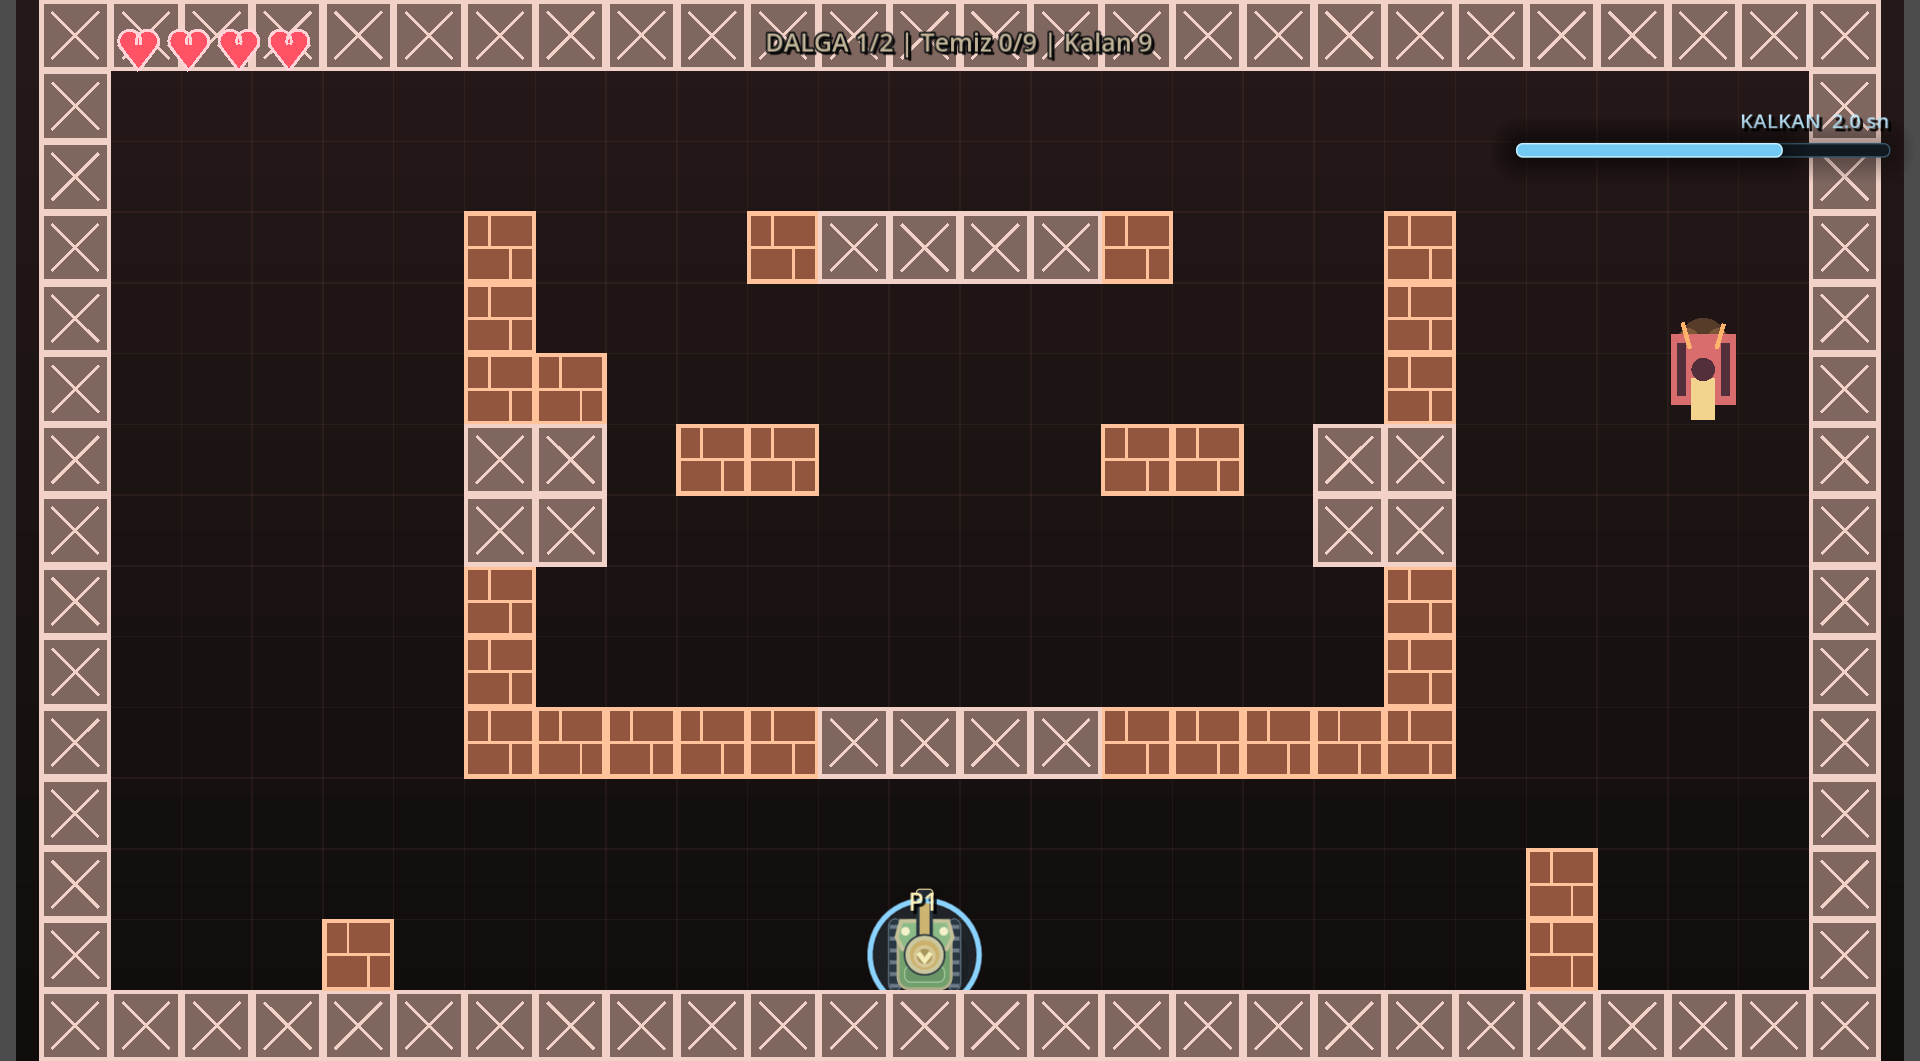
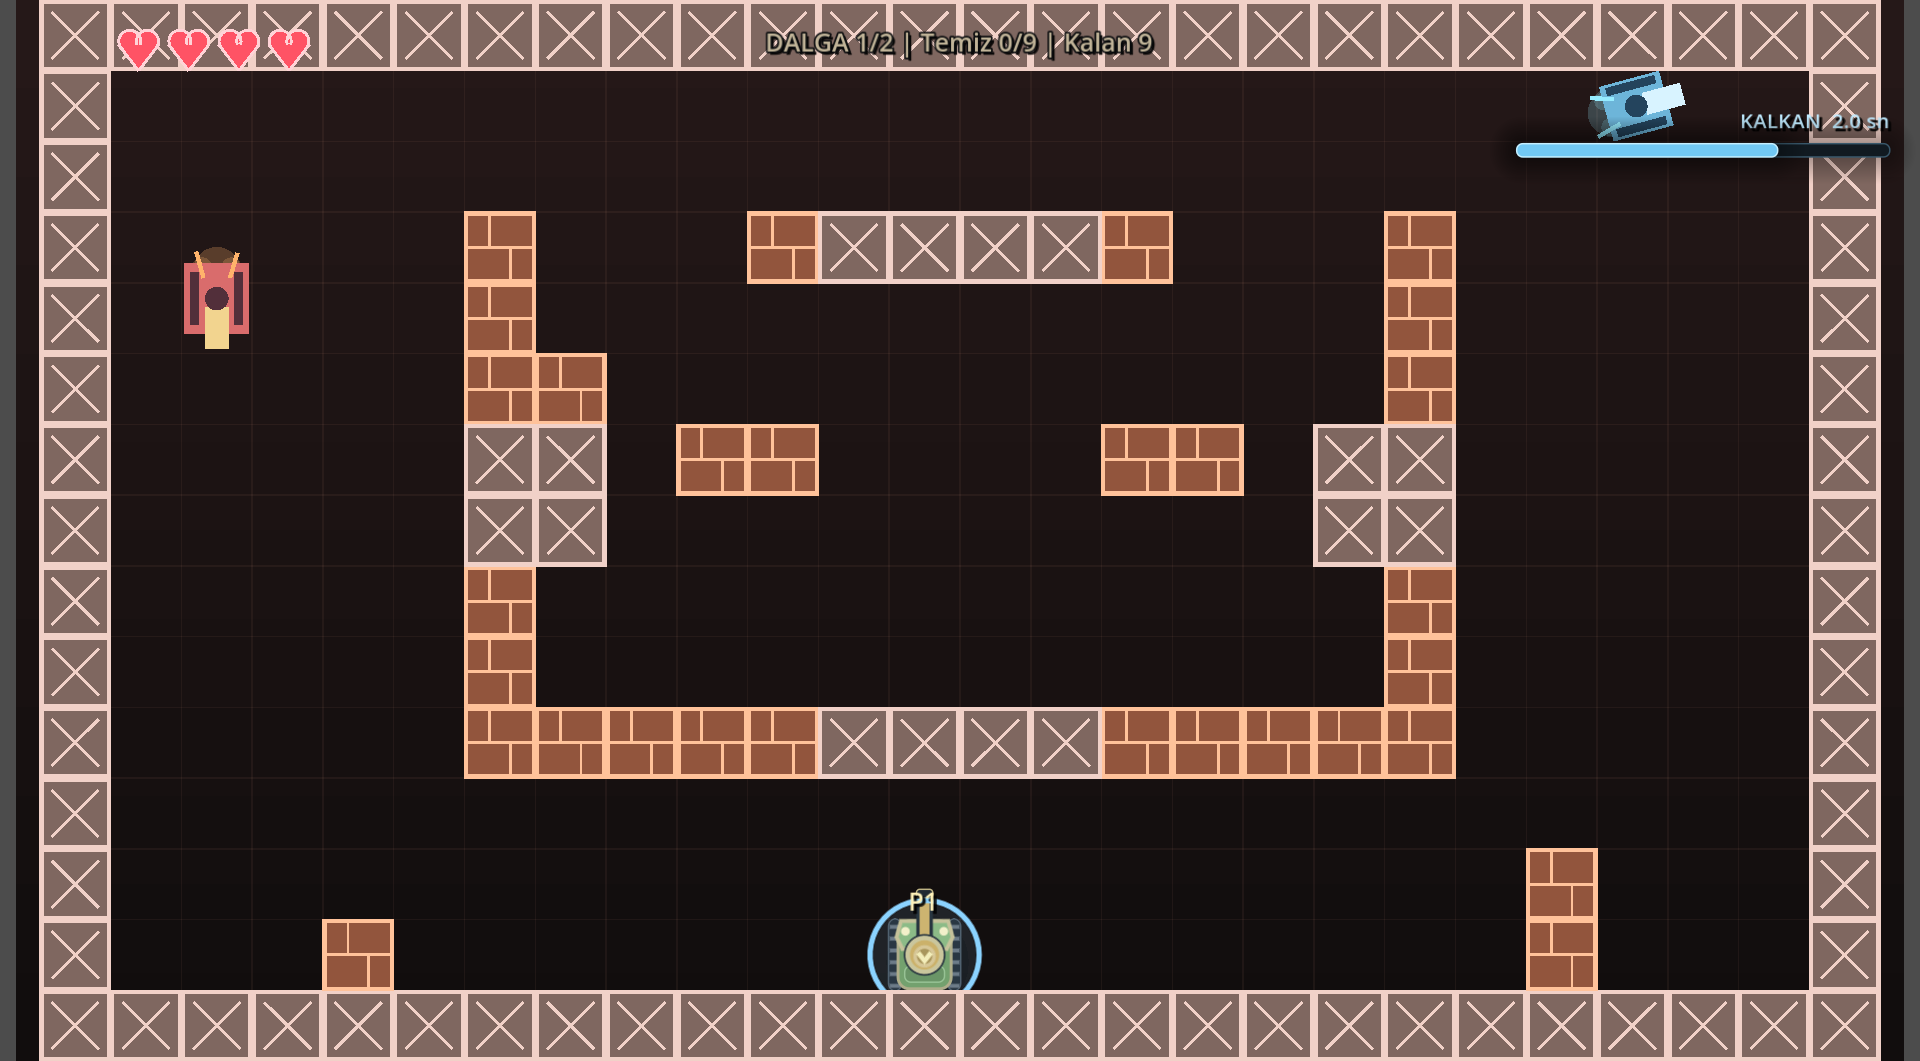
perf: coalesce network updates and fix projectile prediction

Changed region(s): [[0.8438, 0.2799, 0.9062, 0.4043], [0.0938, 0.2177, 0.1562, 0.3421], [0.8125, 0.0622, 0.875, 0.1244]]

diff --git a/docs/performance-2.0.3.md b/docs/performance-2.0.3.md
@@ -1,0 +1,54 @@
+# 2.0.3 / 25 performans ve hata azaltma
+
+## Degisiklikler
+
+- Ayni ag okuma turundaki dunya paketleri birlestirilir; arena yalnizca en
+  guncel durumu kopyalar. Yetki/oda/rovans mesajindan once bekleyen dunya
+  bildirimi uygulanir. Duvar durumu ara paketler arasinda korunur.
+- Bir karede en fazla 64 paket okunur. Paketler arasinda 3 ms butce kontrolu
+  yapilir; tek bir buyuk paketin parse suresi bu butceyi asabilir.
+- Normal isabetler 20 Hz dunya guncellemesini kullanir. Her isabette fazladan
+  tam dunya gonderilmez; mac sonu isabeti aninda iletilmeye devam eder.
+- Mermi tahmin hedefi mermiyle birlikte ilerler. Eski sabit hedefe dogru
+  cekilip paket aralarinda yavaslama hatasi giderildi.
+- Mermi boyutu degismiyorsa fizik sekli tekrar ayarlanmaz. Gizli destek
+  etiketi her karede hesaplanmaz; ayni isim/renk etikete tekrar uygulanmaz.
+- Bozuk dunya paketlerinin temel yapisi dogrulanir. Ag gonderim hatasi
+  sessizce yutulmaz; yeniden baglanma akisina girilir.
+
+## Olcum ve test kapsami
+
+Ayni bilgisayarda 100 adet 10-paketlik yapay burst: toplam 1.000 paket,
+120 duvar ve 30 dusmanlik veri. Degisiklik oncesi 1.000 arena bildirimi,
+216.472 ms; ilk optimize kosuda 100 bildirim, 125.653 ms. Bu mikro olcum
+FPS, paket kaybi veya internet pingi degildir. Sureler makine yukune gore
+degisir; bildirim sayisindaki azalma testte kesin olarak denetlenir.
+
+Canli `wss://atify.com.tr/aksoy-tank/ws` uzerinden iki ayri Godot istemcisi:
+co-op ve versus, yon/ates, sonuc, ilerleme/tekrar, host devri ve yeniden
+katilma PASS. Test sonu istemci gostergeleri: RTT 28.8, 30.7, 28.9, 30.3 ms;
+jitter 2.2, 2.1, 2.6, 0.8 ms. Bu sayilar yalnizca bu baglantinin ornekleridir;
+once/sonra ping iyilesmesi veya tum kullanicilar icin garanti ifade etmez.
+
+Odakli regresyonlar: bozuk paket reddi; burst bildirimi birlestirme; rol
+degisimi oncesinde dunya durumu sirasi; gecikmeli mermi hareketi; duvar
+korunmasi; eski raund ve eski hareket girdisi reddi.
+
+```powershell
+godot --headless --path . --script res://tools/network_packet_benchmark.gd -- --batch
+```
+
+Gercek dusuk donanimli Android cihazda uzun sureli kare suresi, isi ve pil
+olcumu yapilmadi. Mobil veri kaybi ve Wi-Fi gecisleri fiziksel cihazlarda
+ayrica denenmeli. Tamamen hatasiz veya sifir gecikmeli oyun iddiasi yoktur.
+
+## Paket
+
+Surum 2.0.3 / 25, minimum API 24, hedef API 36. AAB boyutu 51,450,084 byte.
[1 lines of base64/hex data omitted]
+Kaynak yedek dali: `codex/release-2.0.3-performance`.
+Paketleme regresyonlari, 60 bolumluk kisa muharebe testi, 11 relay testi,
+yerel iki istemci testi, Android 7 emulator acilisi ve AAB imza/mimari/manifest
+kontrolleri gecti. Masaustu AAB kopyasinin hash'i dogrulandi.
+Masaustundeki Test.apk debug imzalidir; Play kurulumunun ustune guncelleme
+olarak kullanilmaz. Mevcut kayitlari korumak icin oyunu silmeyin.

diff --git a/docs/play-store-guncelleme-notlari.md b/docs/play-store-guncelleme-notlari.md
@@ -2,7 +2,14 @@
 
 ## tr-TR
 
-Aksoy Tank 2.0.2:
+Aksoy Tank 2.0.3:
+
+- Online paket işleme yükü ve isabet başına gereksiz dünya gönderimi azaltıldı.
+- Mermilerin paketler arasında yavaşlamasına neden olan tahmin hatası düzeltildi.
+- Gizli arayüz hesapları ve isim etiketi güncellemeleri azaltıldı.
+- Hatalı paket kontrolleri ve gönderim hatalarında yeniden bağlanma iyileştirildi.
+
+2.0.2 sürümünden korunanlar:
 
 - Co-op sonraki bölüm ve tekrar deneme iki oyuncunun onayıyla birlikte başlar.
 - Host bölümü misafire eşitlenir; eski raund paketleri yeni maça uygulanmaz.
@@ -29,7 +36,14 @@ Aksoy Tank 2.0.2:
 
 ## en-US
 
-Aksoy Tank 2.0.2:
+Aksoy Tank 2.0.3:
+
+- Reduced packet processing and redundant full-world updates during combat.
+- Fixed predicted bullets slowing toward stale network targets.
+- Reduced hidden HUD calculations and redundant nameplate updates.
+- Improved malformed packet checks and send-failure reconnection.
+
+Retained from 2.0.2:
 
 - Synchronized co-op stage progression, retries and versus rematches.
 - Host stage synchronization and rejection of stale round snapshots.

diff --git a/docs/android-release.md b/docs/android-release.md
@@ -26,8 +26,8 @@ Bu script sunlari yapar:
 
 - `C:\Users\atala\Desktop\Masaustu\aksoy-tank-builds\aksoy-tank-debug.apk`
 - `C:\Users\atala\Desktop\Masaustu\aksoy-tank-builds\aksoy-tank-release.aab`
-- `C:\Users\atala\Desktop\Masaustu\aksoy-tank-builds\guncelleme-notlari-2.0.2.txt`
-- `C:\Users\atala\Desktop\Aksoy-Tank-2.0.2-Play-Store.aab`
+- `C:\Users\atala\Desktop\Masaustu\aksoy-tank-builds\guncelleme-notlari-2.0.3.txt`
+- `C:\Users\atala\Desktop\Aksoy-Tank-2.0.3-Play-Store.aab`
 - `assets/store/listing/screenshots/*.png`
 
 ## Ayrik Scriptler
@@ -61,8 +61,8 @@ Su dosyalar `git` disinda tutulur:
 
 - Oyun adi: `Aksoy Tank`
 - Paket adi: `com.atalay.aksoytank`
-- Surum adi: `2.0.2`
-- Surum kodu: `24`
+- Surum adi: `2.0.3`
+- Surum kodu: `25`
 - Online co-op ve 1V1 sunucusu: `wss://atify.com.tr/aksoy-tank/ws`
 - Minimum Android: `7.0 / API 24`
 - Hedef Android: `16 / API 36`
